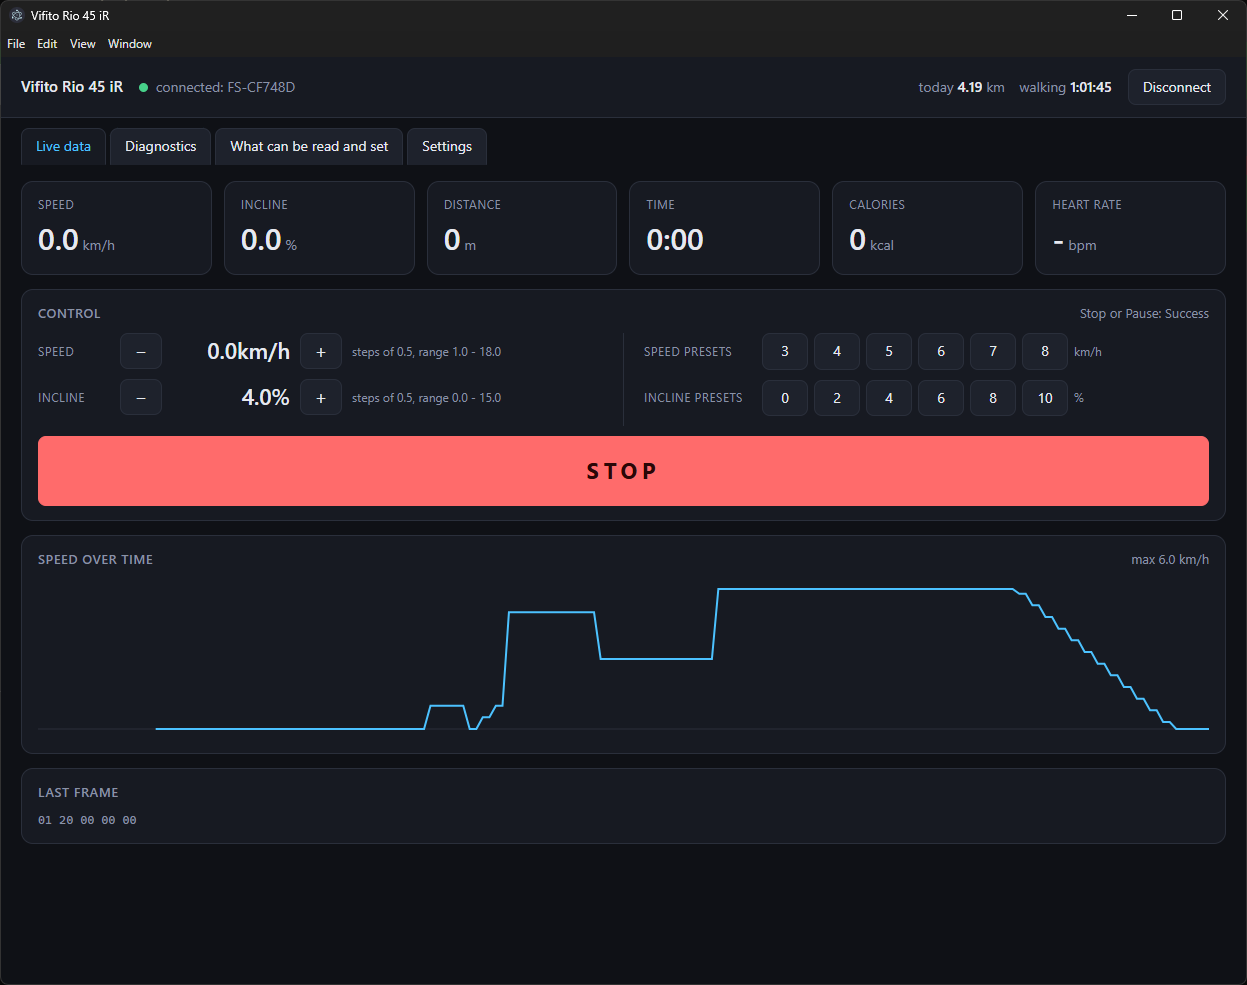
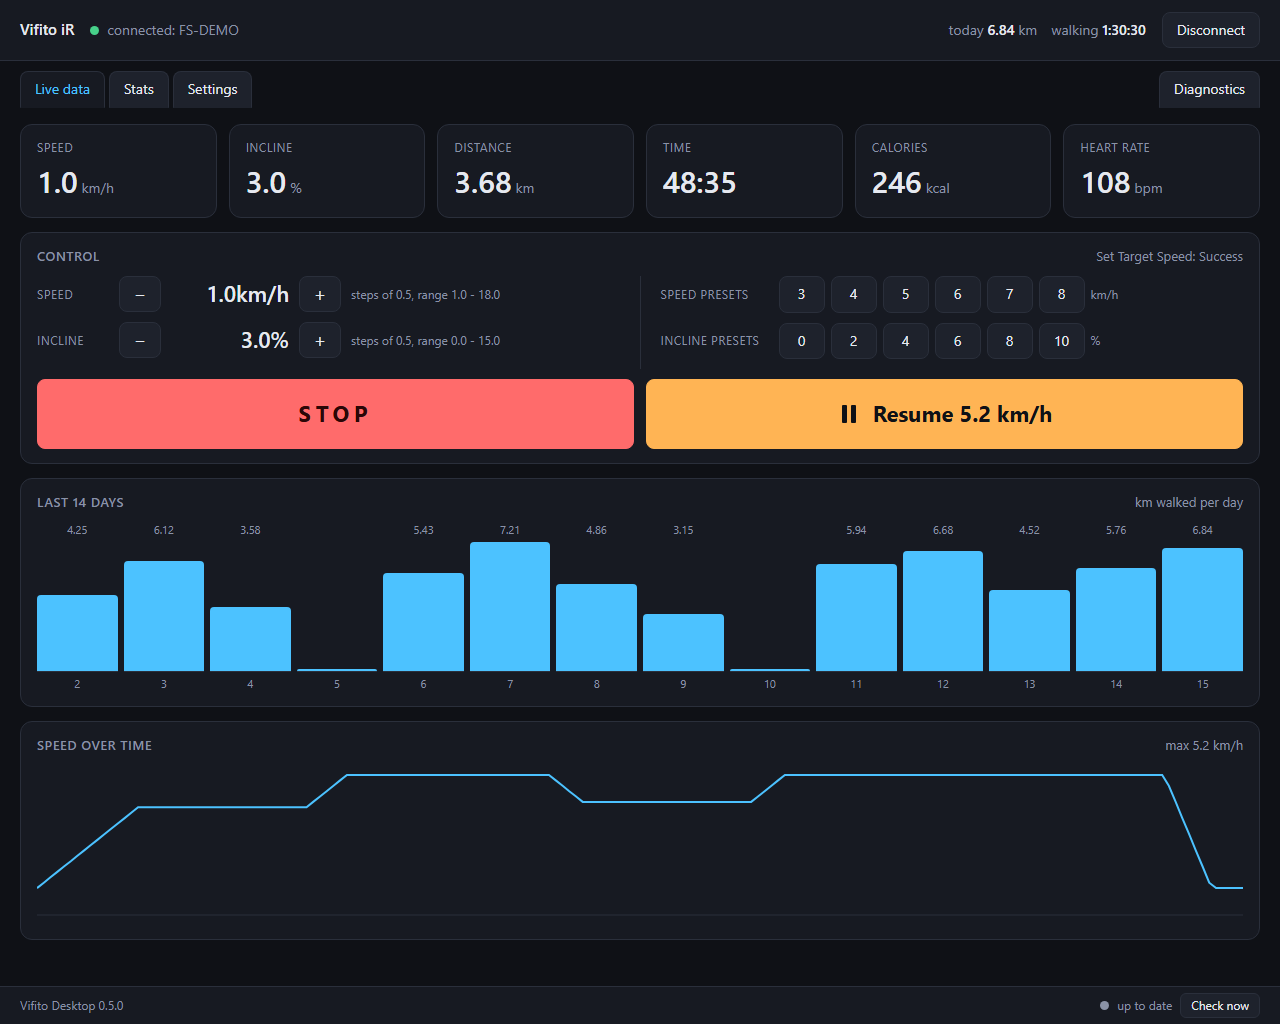
Refresh README screenshot with simulated walking data and active slowdown

diff --git a/README.md b/README.md
@@ -24,7 +24,9 @@ in steps of 0.5 or straight from a preset button. START appears while the belt i
 moves, STOP and Slowdown appear side by side. Slowdown temporarily sets 1 km/h; the button then shows
 a pause icon and the speed that a second click will restore.
 
-![The Live data tab with the control panel](docs/screenshot.png)
+![Live data with simulated walking data and the large pause button beside STOP](docs/screenshot.png)
+
+Simulated walking data with Slowdown active at 1 km/h and a saved speed of 5.2 km/h.
 
 ### Last 14 days
 
